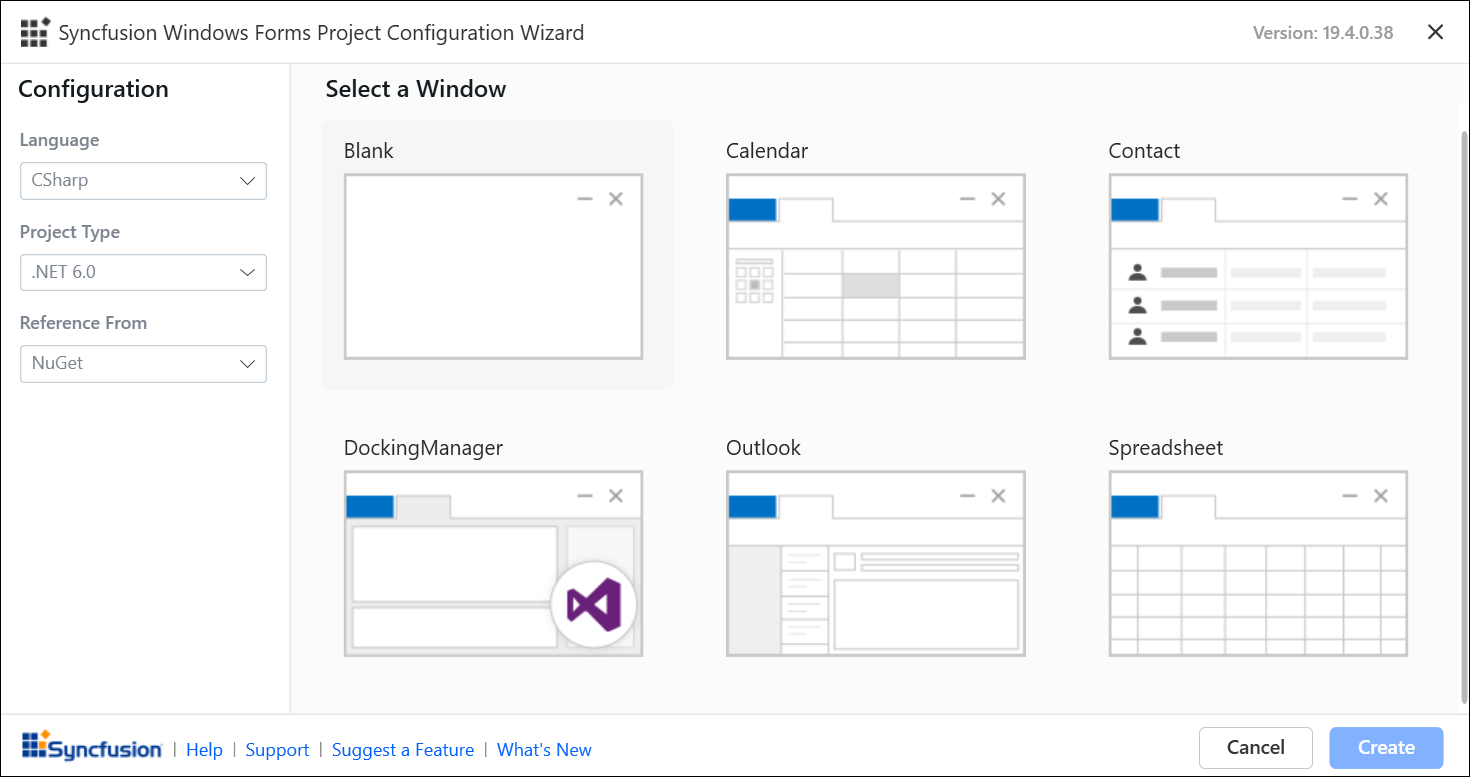
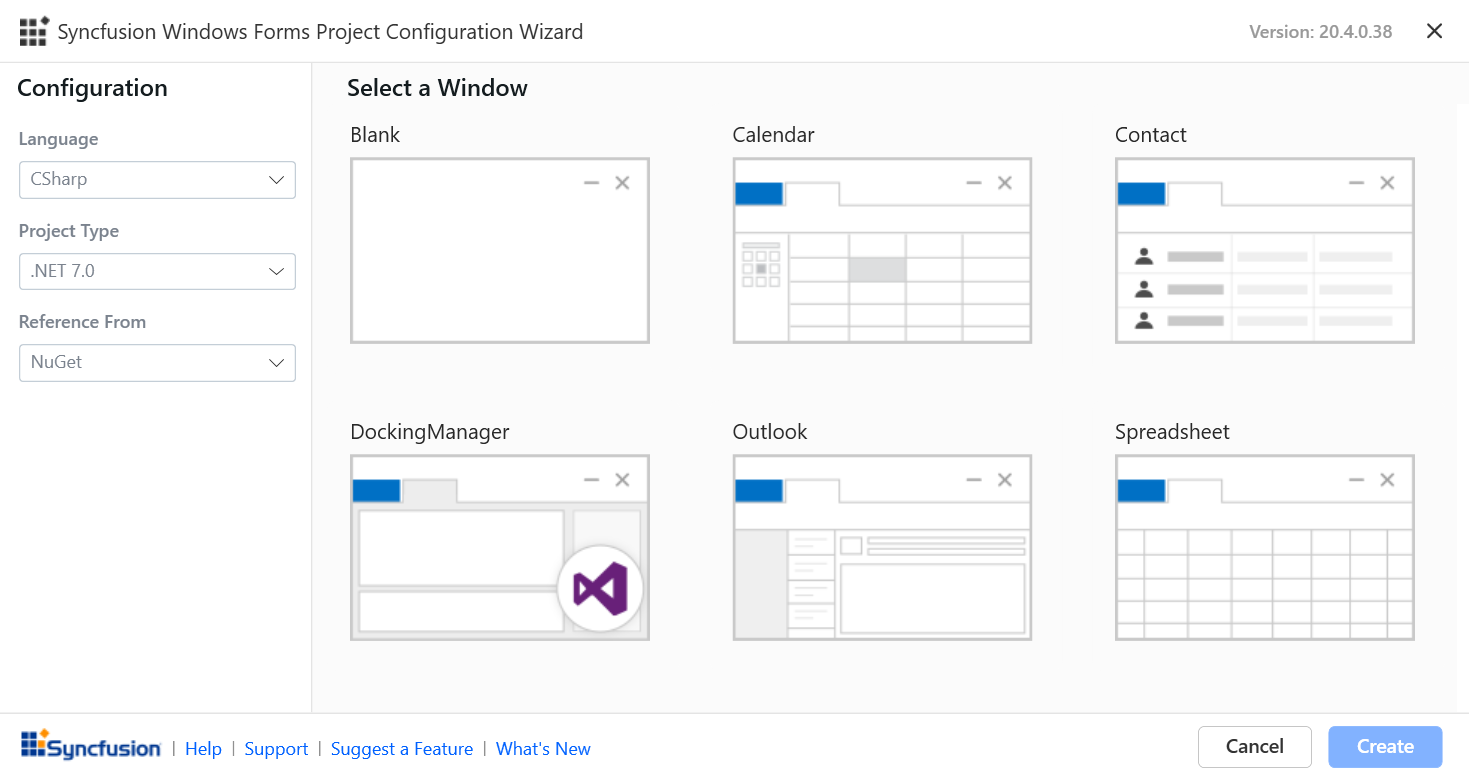
EXT-6982

diff --git a/WindowsForms/Visual-Studio-Integration/Create-Project.md b/WindowsForms/Visual-Studio-Integration/Create-Project.md
@@ -44,7 +44,7 @@ Use the following steps to create the Syncfusion Windows Forms project through t
   
    ![Syncfusion Windows Forms project configuration wizard](Project-Template-images\Syncfusion-Project-Template-Gallery2019-2.png)
 
-   N> .NET 6.0 version is available from v19.4.0.38 and support from Visual Studio 2022. 
+   N> .NET 6.0 and .NET 7.0 version is available from v19.4.0.38 and support from Visual Studio 2022. 
 
    In Visual Studio 2017 or lower, Syncfusion Windows Forms Application project configuration wizard.
 
